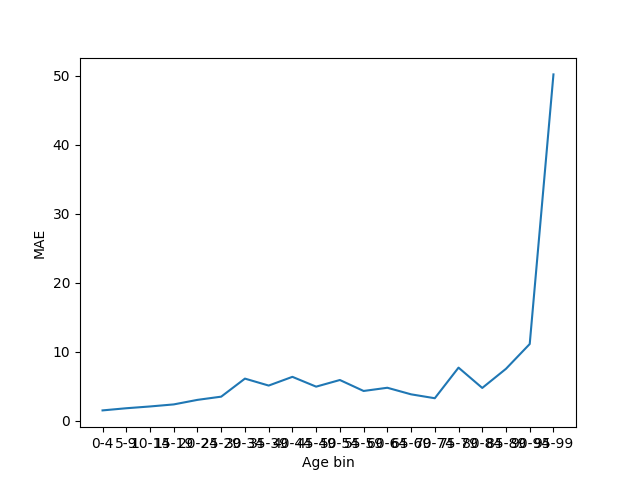
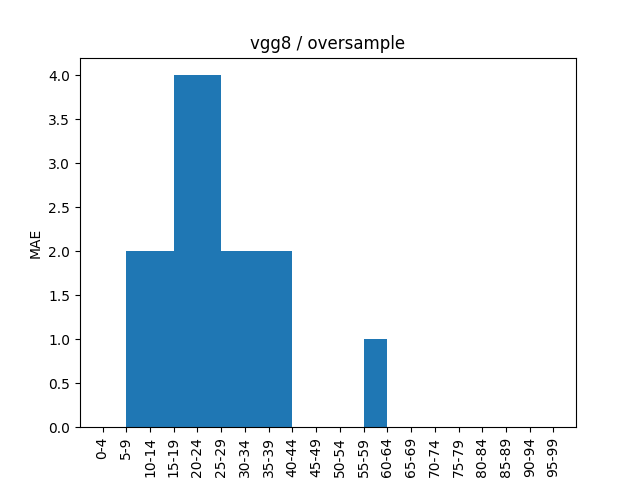
wip

diff --git a/plot_results.py b/plot_results.py
@@ -1,5 +1,5 @@
 import argparse
-from main import SCRIPT_DIR
+import json
 import os
 import shutil
 
@@ -20,8 +20,13 @@ def main():
     train_losses = np.loadtxt(f"{results_dir}/train_losses_during_training.txt")
     val_losses = np.loadtxt(f"{results_dir}/val_losses_during_training.txt")
     val_losses_per_bin = np.loadtxt(f"{results_dir}/best_model_val_losses_per_bin.txt")
+    with open(f"{results_dir}/config.json") as cfg_file:
+        cfg = json.load(cfg_file)
+
+    cfg_desc = f"{cfg['arch']} / {cfg['sampling_mode']}"
 
     n_epochs = len(train_losses)
+    plt.title(cfg_desc)
     plt.xlabel("Epoch")
     plt.ylabel("MAE")
     plt.plot(range(n_epochs), train_losses, label="Training loss")
@@ -31,10 +36,13 @@ def main():
     plt.clf()
 
     n_bins = len(val_losses_per_bin)
-    bins = [f"{5*i}-{5*i+4}" for i in range(n_bins)]
+    bins = range(n_bins)
+    display_bins = [f"{5*i}-{5*i+4}" for i in bins]
+    plt.title(cfg_desc)
     plt.xlabel("Age bin")
     plt.ylabel("MAE")
-    plt.plot(bins, val_losses_per_bin)
+    plt.xticks(bins, display_bins, rotation='vertical')
+    plt.hist(val_losses_per_bin, bins)
     plt.savefig(f"{figures_dir}/val_losses_per_bin.png")
     plt.clf()
 
